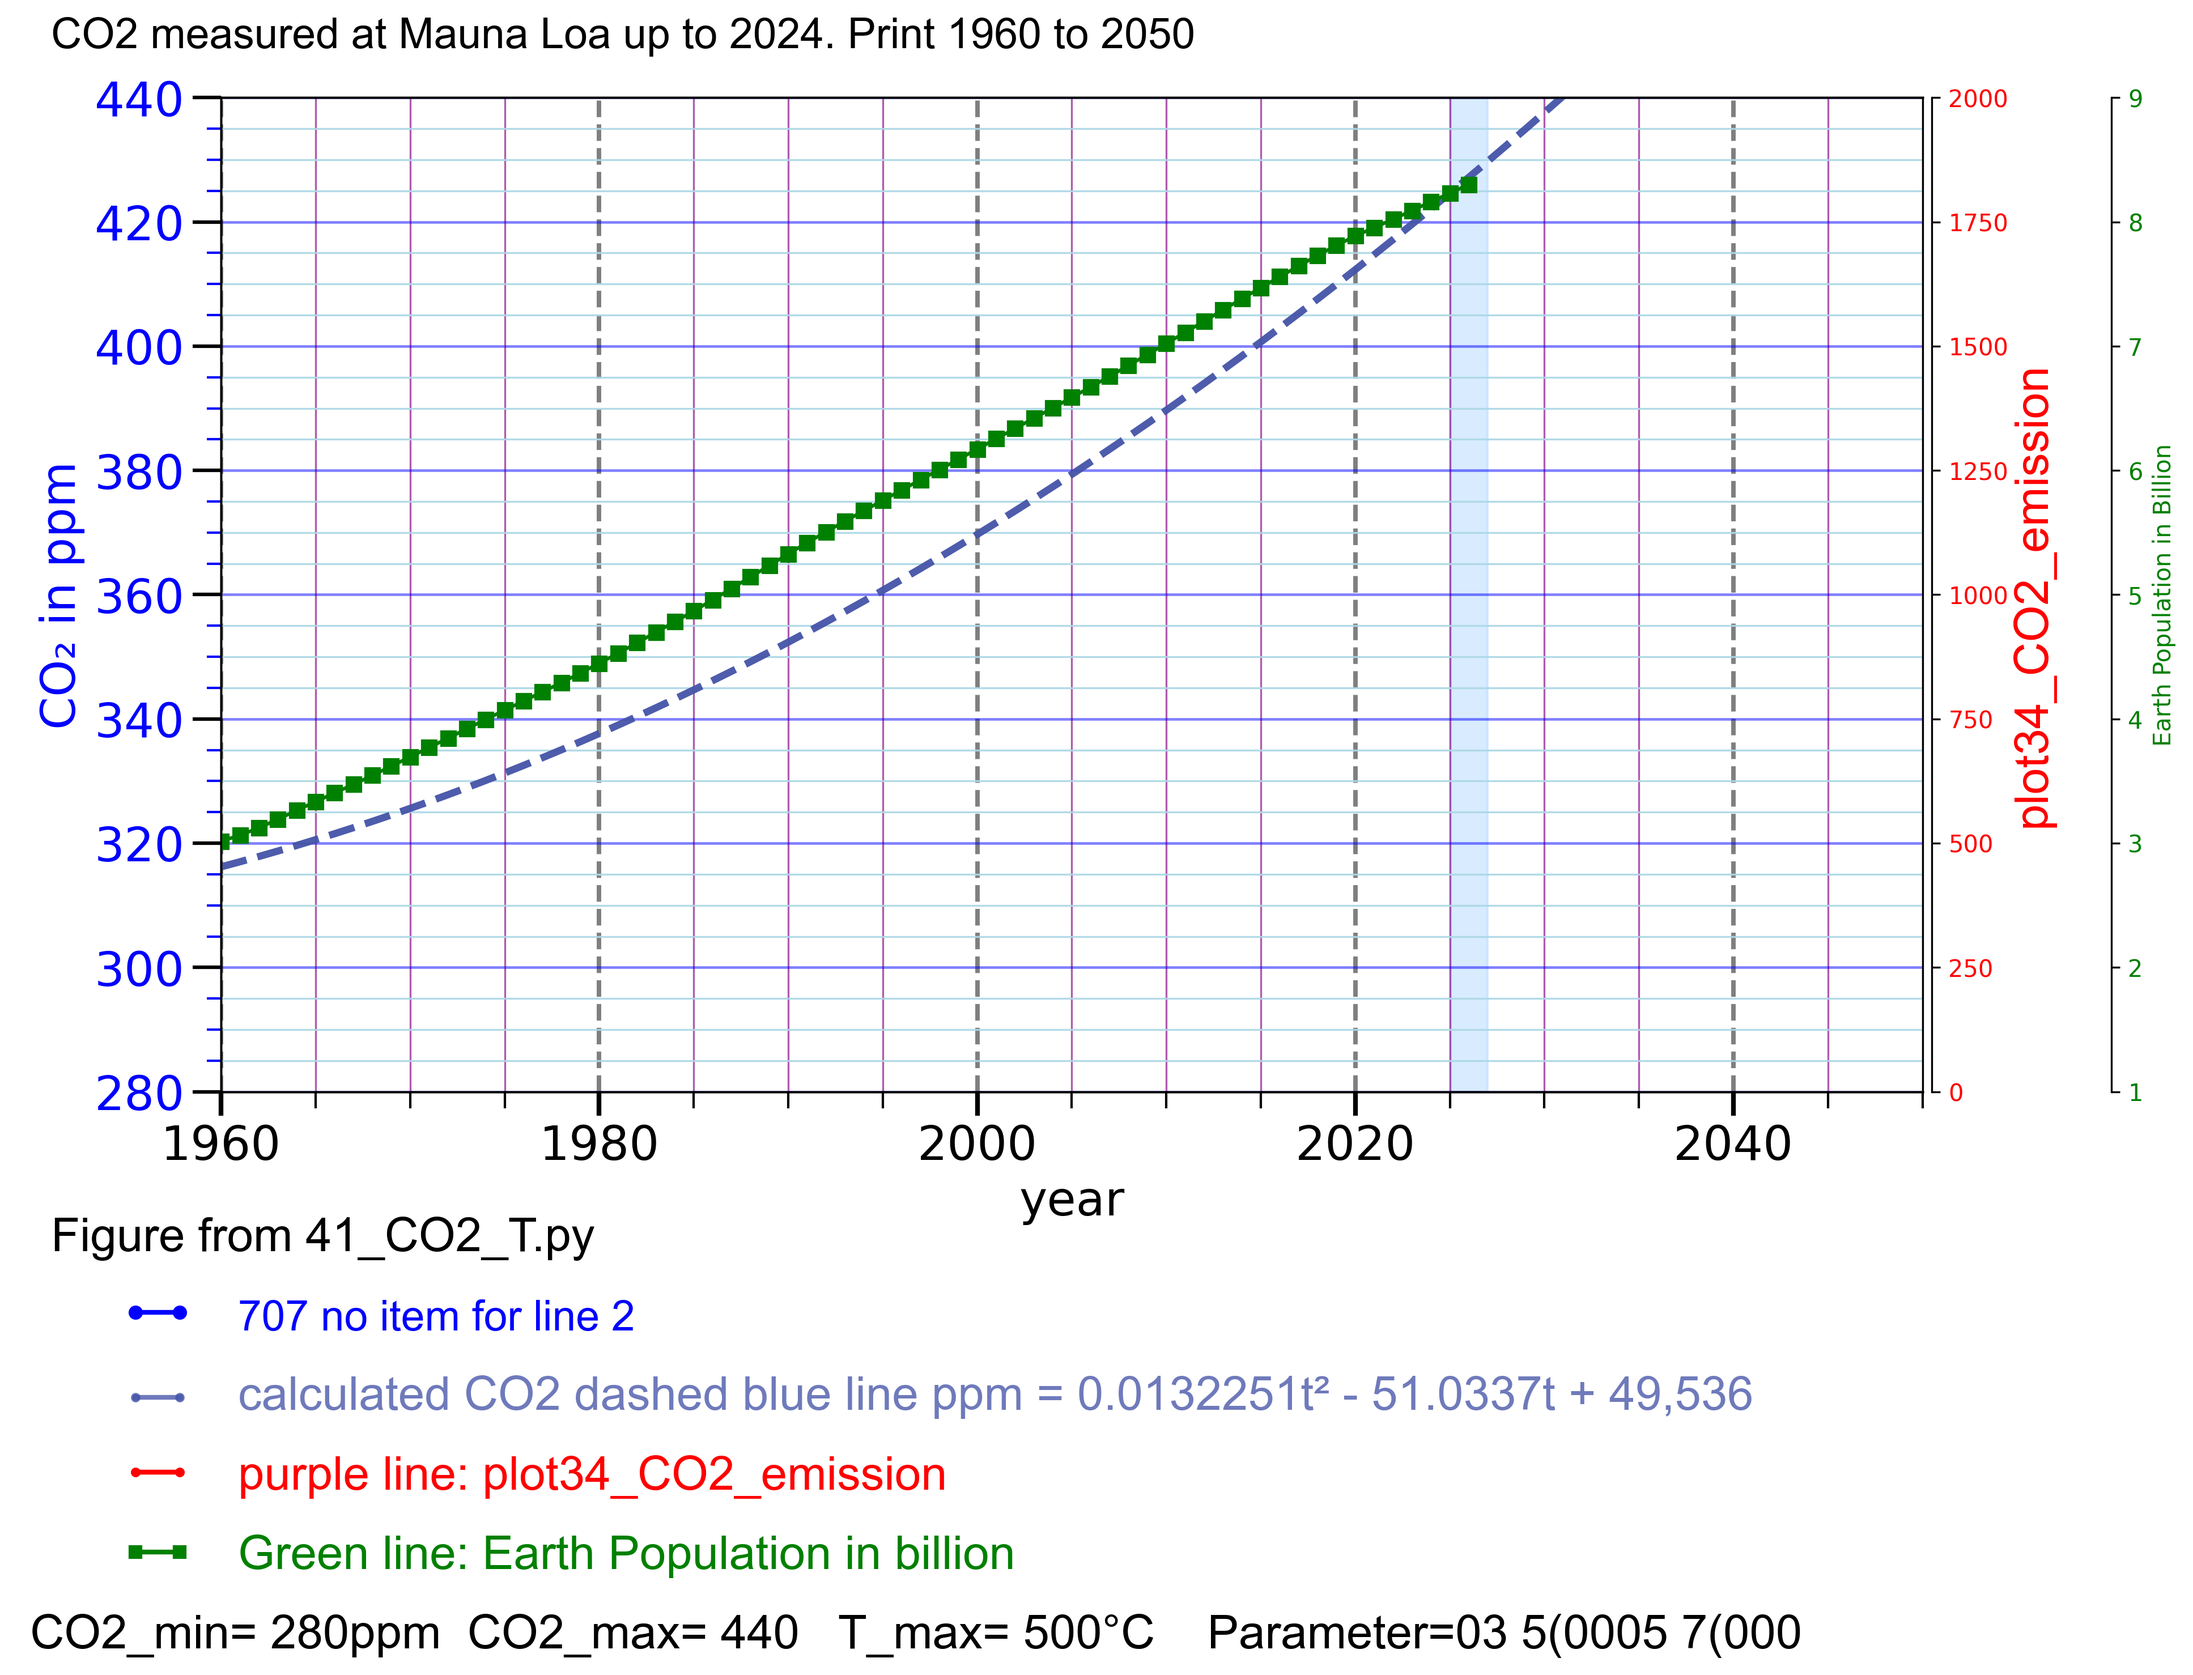
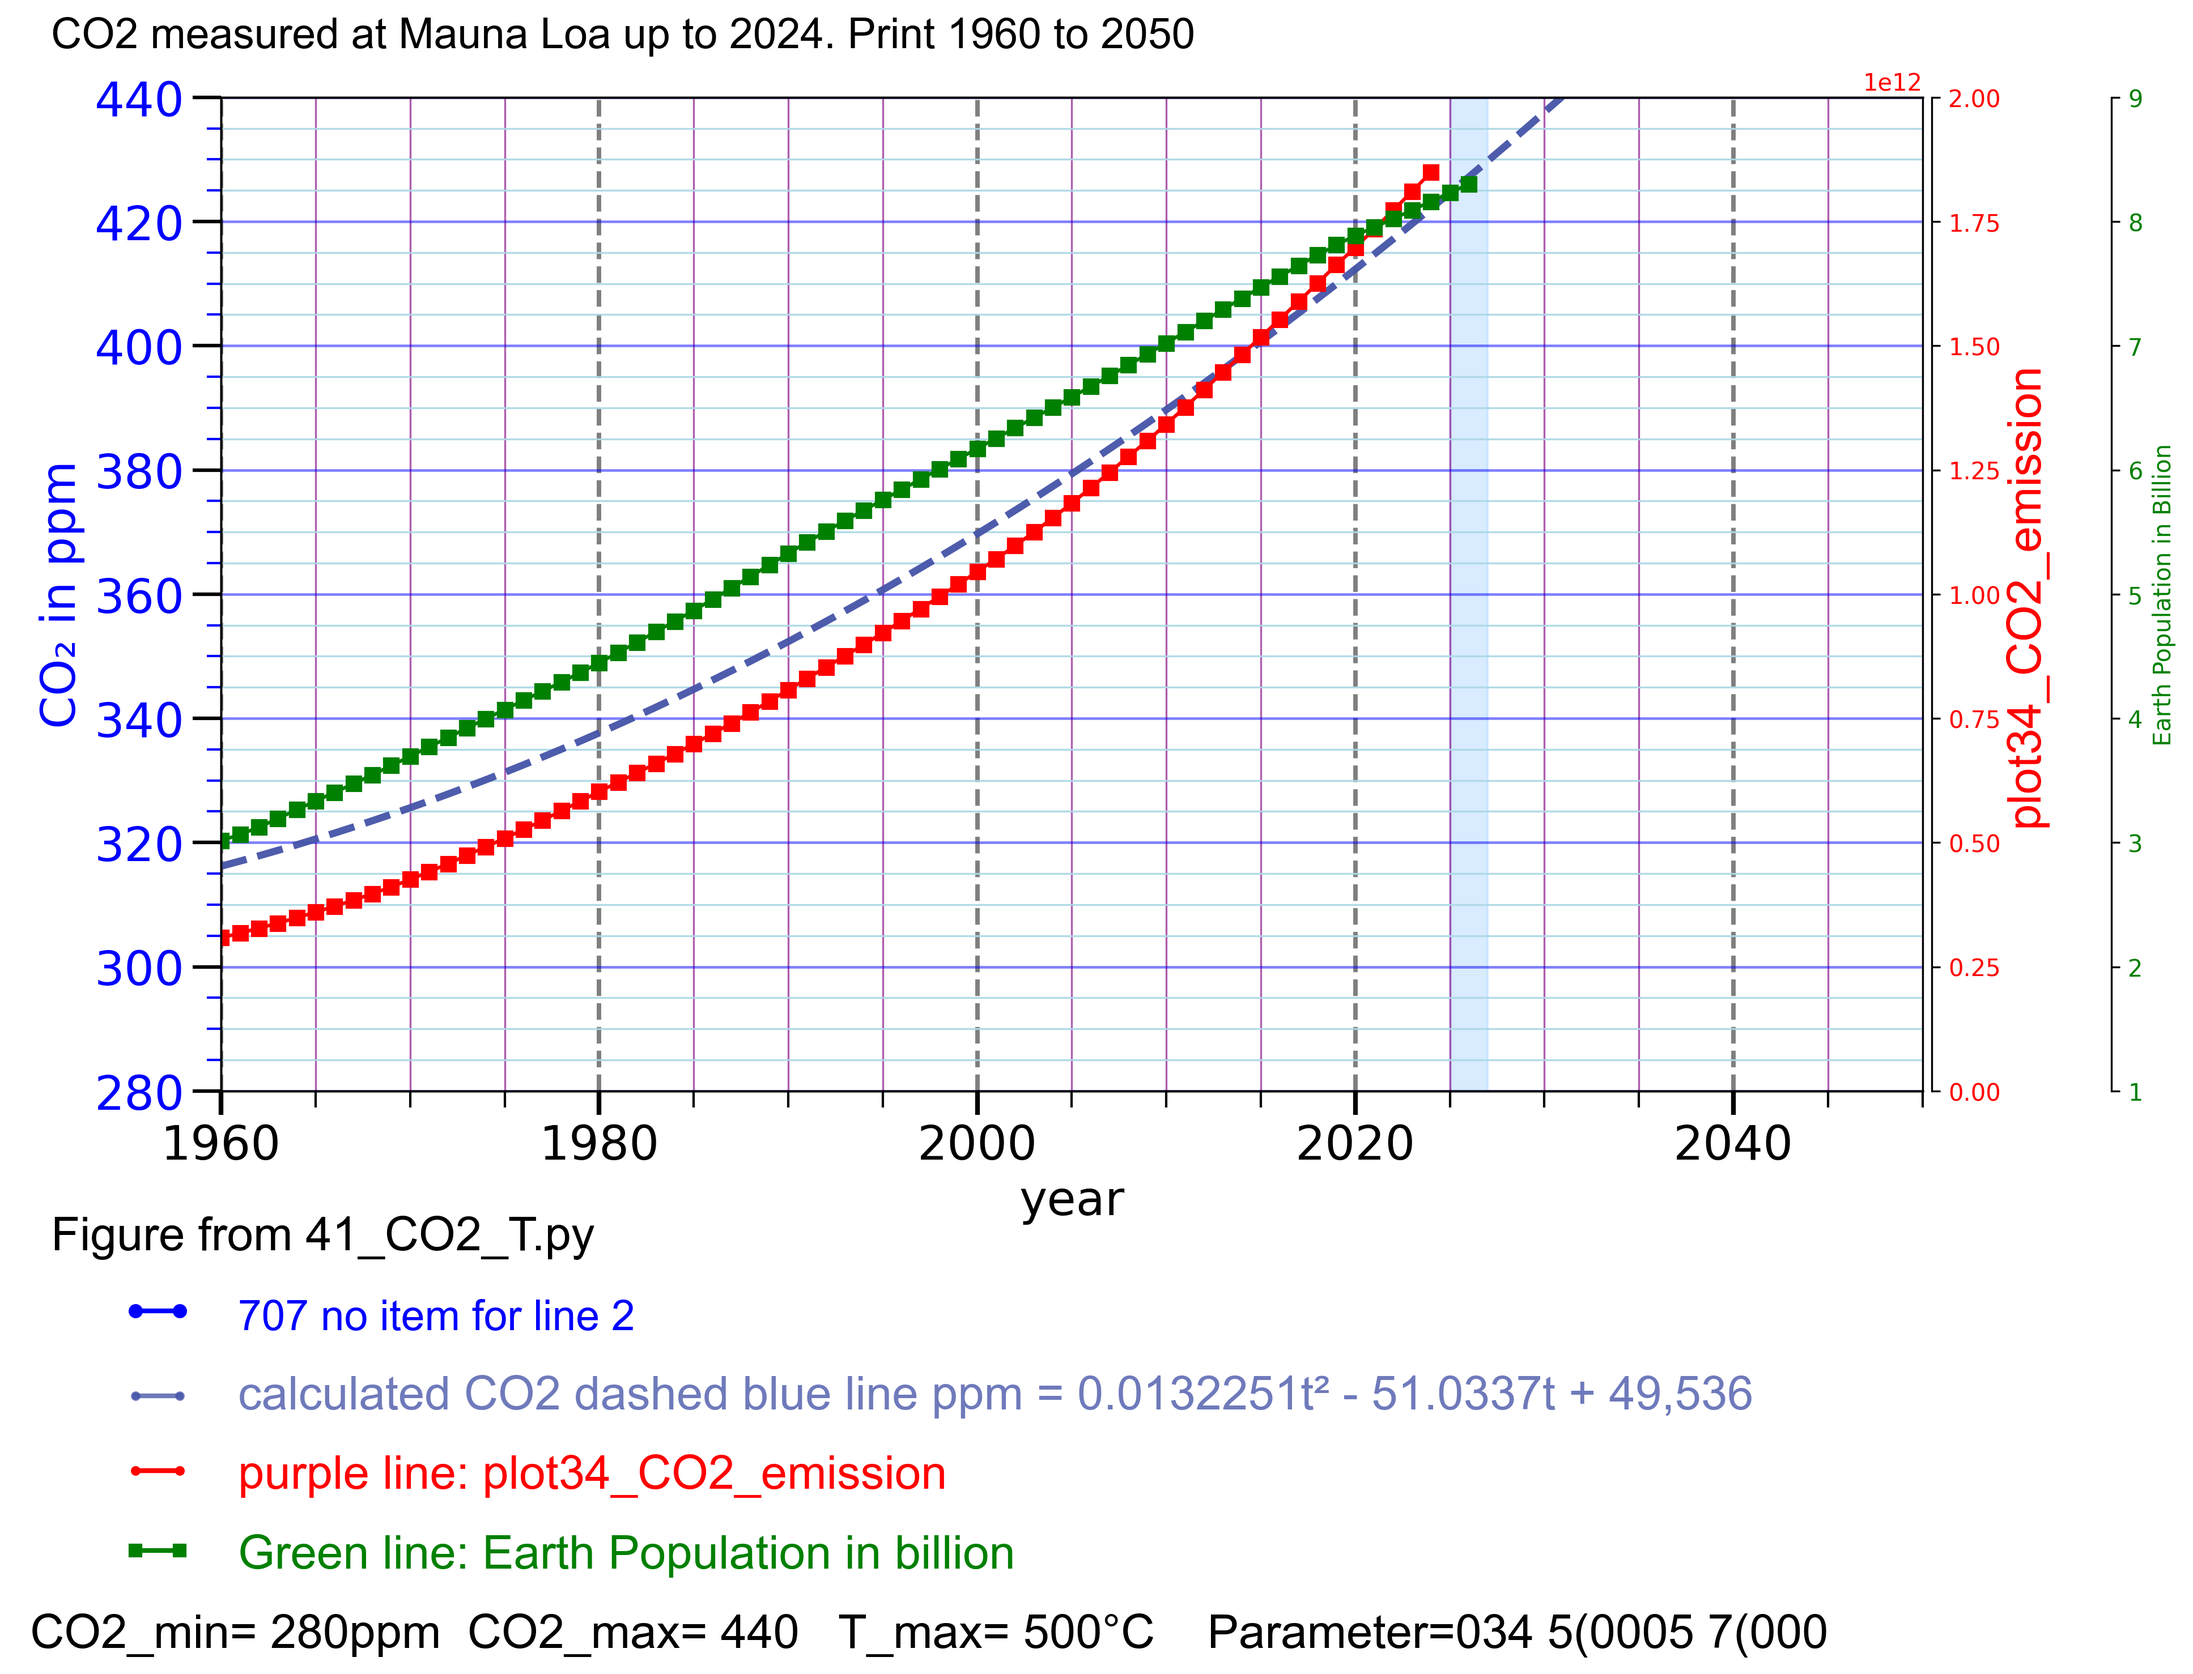
41y7_CO2_T.py work no co2_cumul.csv

diff --git a/41_CO2_T.py b/41_CO2_T.py
@@ -1,4 +1,4 @@
-# 41y6_CO2_T.py work no co2_cumul.csv
+# 41y7_CO2_T.py work no co2_cumul.csv
 # https://ourworldindata.org/grapher/cumulative-co-emissions
 # Thomas Boettcher
 # part 1 configure 
@@ -108,7 +108,8 @@ else:
 
 # 1.8 Parameter strig
 header_parameter = f"{plot22_CO2_Mauna_Loa}" # 1960 number inside string
-header_parameter = header_parameter + f"{plot23_Glen_CO2} " # plot55_population_on number inside string
+header_parameter = header_parameter + f"{plot23_Glen_CO2}" # 
+header_parameter = header_parameter + f"{plot34_CO2_emission} " # 
 
 header_parameter = header_parameter + f"5({plot52_delta_CO2_red_bars}" # plot52_delta_CO2_red_bars number inside string
 header_parameter = header_parameter + f"{plot53_CO2_orange2025}" # plot53_CO2_orange2025 number inside string
@@ -215,19 +216,20 @@ if plot23_Glen_CO2 > 0:
 #       World,OWID_WRL,1750,9305937
 if plot34_CO2_emission > 0:
    print34_text ="purple line: plot34_CO2_emission"
-   df34r = pd.read_csv("co2_cumul.csv")
-   cumul_co2_world = (
-         df34r[df34r["Entity"] == "World"][["Year34", "Cumulat"]]
+   df34 = pd.read_csv("co2_cumul.csv")
+   co2_sum_world = (
+         df34[df34["Entity"] == "World"][["Year34", "Cumulat"]]
          .query("1960 <= Year34 <= 2026")
          .sort_values("Year34")
          .reset_index(drop=True)
       )
    #  1  1961  317811160000
    # 3.4.4 in Mt CO2
-   cumul_co2_world["Cumulat"] = cumul_co2_world["Cumulat"] / 1e9
-   # print(cumul_co2_world.head(70))
-   #    1  1961  317.81116
-   #   64  2024  1849.12390
+   co2_sum_world["GCumulat"] = co2_sum_world["Cumulat"] / 1e9
+   print(co2_sum_world.head(10))
+   #   Year34       Cumulat   GCumulat
+   # 0    1960  308396160000  308.39616
+   # 1    1961  317811160000  317.81116
 
 # 3.4.5 plot34_CO2_emission
 if plot34_CO2_emission > 0:
@@ -250,20 +252,6 @@ if plot52_delta_CO2_red_bars > 0:
    # This line creates a new column in your DataFrame called Delta_CO2.
    ax52 = ax1.twinx()  # twinx(): Shares the same x-axis Adds a new y-axis on the right
 # growth data is different https://gml.noaa.gov/webdata/ccgg/trends/co2/co2_gr_mlo.txt
-#  2020        2.30        0.11
-#  2021        2.35        0.11
-#  2022        1.87        0.11
-#  2023        3.32   2,55     0.11
-#  2024        3.33   3,53     0.11
-#  2025        2.23   2.74     0.11
-# anual mean data is different https://gml.noaa.gov/webdata/ccgg/trends/co2/co2_annmean_mlo.txt
-#  year   noa     my.py  noa  
-#  2020   414.21   2,58  2.30
-#  2021   416.41   2,17  2.35
-#  2022   418.53   2,12  1.87
-#  2023   421.08   2,55  3.32
-#  2024   424.61   3,53  3.33
-#  2025   427.35   2,74  2.23
 
 # part 5.3 plot53_CO2_orange2025
 # part 5.3.1 -- Quadratic model function
@@ -284,7 +272,7 @@ data53 = {
 2000: 369.71, 2001: 371.32, 2002: 373.45, 2003: 375.98, 2004: 377.70,
 2005: 379.98, 2006: 382.09, 2007: 384.02, 2008: 385.83, 2009: 387.64,
 2010: 390.10, 2011: 391.85, 2012: 394.06, 2013: 396.74, 2014: 398.87,
-2015: 401.01, 2016: 404.41, 2017: 406.76, 2018: 408.72, 2019: 411.66, # 2025 = 427.35  ppm
+2015: 401.01, 2016: 404.41, 2017: 406.76, 2018: 408.72, 2019: 411.66, 
 2020: 414.24, 2021: 416.41, 2022: 418.53, 2023: 421.08, 2024: 424.61 , 2025: 427.35 
 }
 years53 = np.array(list(data53.keys()))
@@ -353,7 +341,6 @@ if plot55_population_on > 0:
          .sort_values("Year")
          .reset_index(drop=True)
       )
-   # pop_world_subset = pop_world[start:end]
    # 5.5.4 in Milliarden
    pop_world["Population_Mrd"] = pop_world["Population"] / 1e9
 # 5.5.5 plot55_population_on=1
@@ -626,10 +613,10 @@ elif plot34_CO2_emission > 0:
                    fontname="Arial",fontsize=20,
                    labelpad=1   # smaller = closer to y axis
                    )
-   ax34.plot(df34r["Year34"], df34r["Cumulat"], marker="s", label="plot34_CO2_emission", color=c34, linewidth=3)
+   ax34.plot(df34["Year34"], df34["Cumulat"], marker="s",  color=c34, label="plot34_CO2_emission")
    ax34.tick_params(axis="y", labelcolor=c34)
    ax34.set_ylim(0, 2000) #8
-
+   ax34.set_ylim(0, 2000000000000) #8
 
 # 8.5.9 
 if plot55_population_on > 0:
